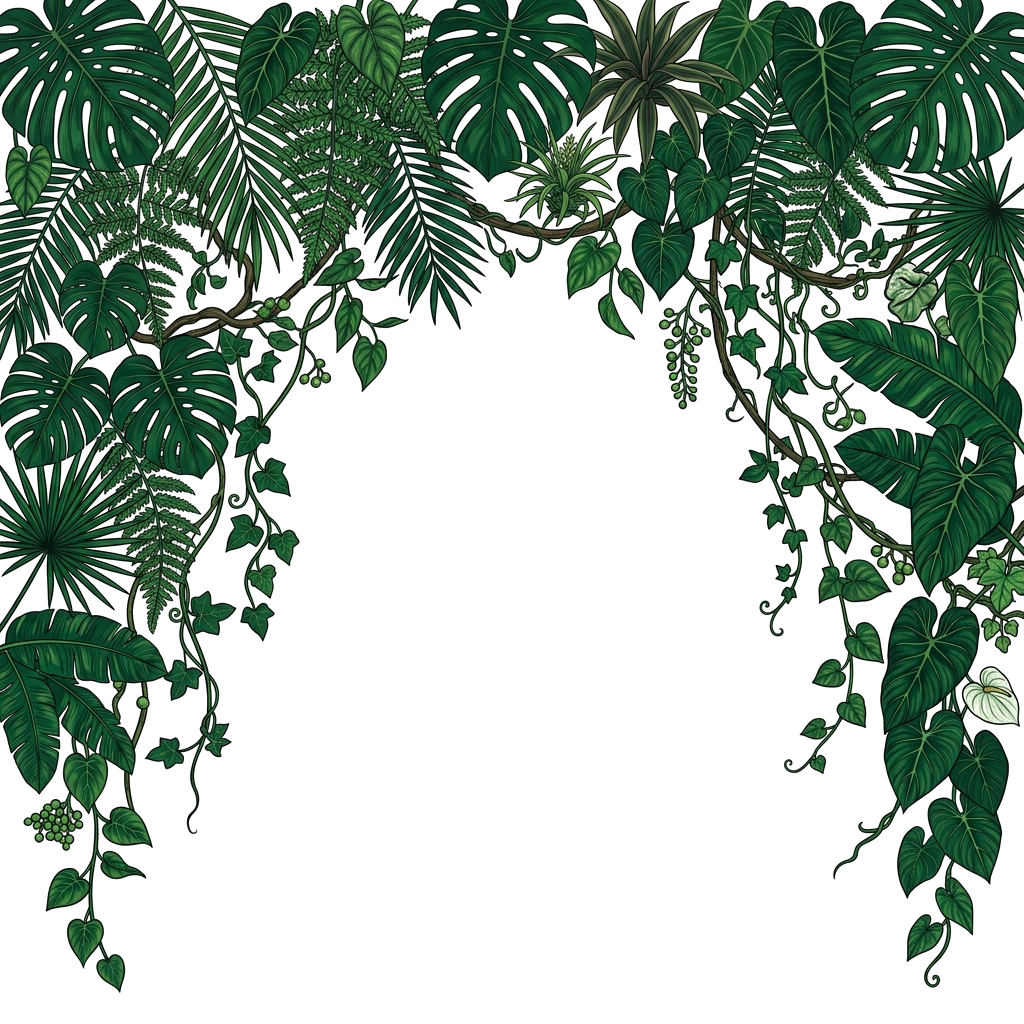
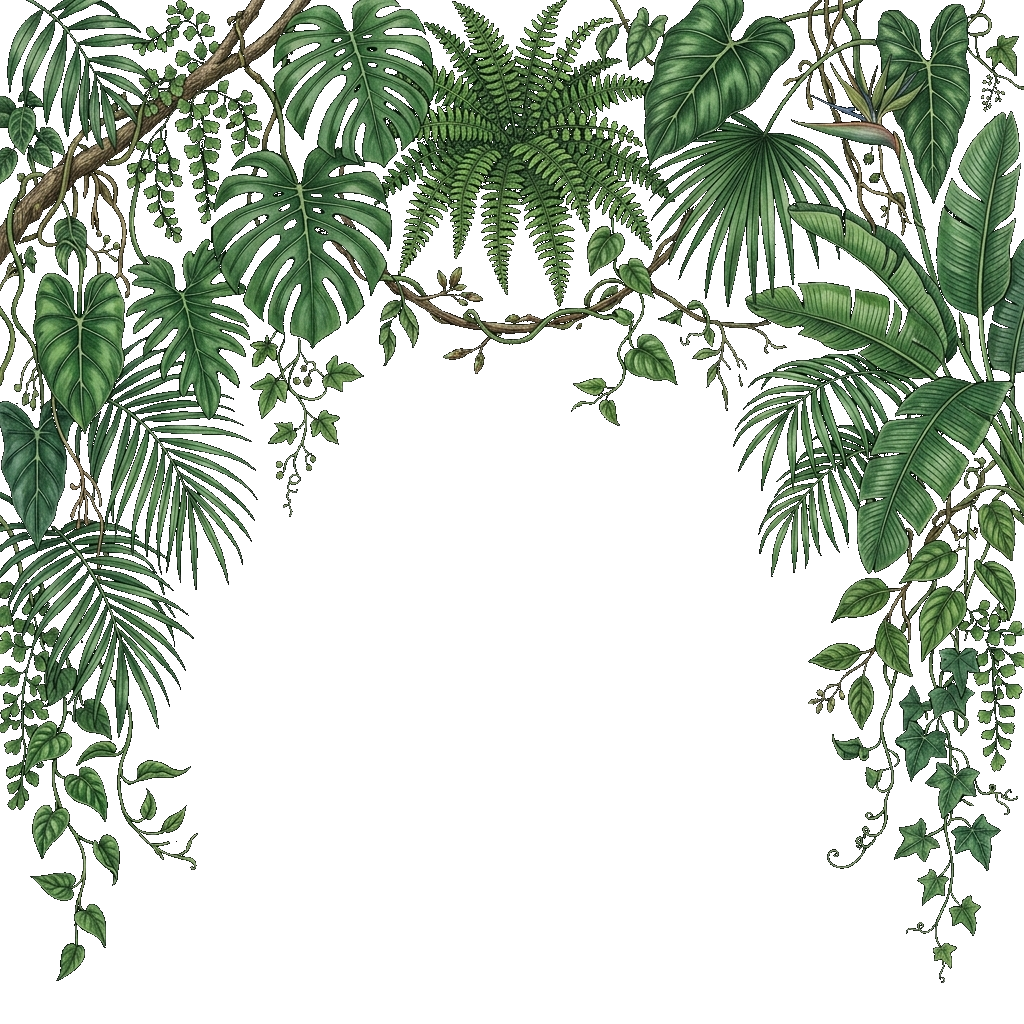
fix: replace leaves asset with black background generation to eliminate anti-aliasing white halos

diff --git a/resources/views/index.blade.php b/resources/views/index.blade.php
@@ -9,7 +9,7 @@
 
     <link rel="icon" type="image/png" href="{{ asset('favicon.png') }}">
     {{-- Public CSS (design tokens + animations) --}}
-    <link rel="stylesheet" href="{{ asset('css/public.css') }}?v=1.1.4">
+    <link rel="stylesheet" href="{{ asset('css/public.css') }}?v=1.1.5">
 
     {{-- GSAP 3 + ScrollTrigger via CDN --}}
     <script src="https://cdn.jsdelivr.net/npm/gsap@3.12.5/dist/gsap.min.js"></script>
@@ -432,7 +432,7 @@
 </div>
 
 {{-- Script --}}
-<script src="{{ asset('js/script.js') }}?v=1.1.4"></script>
+<script src="{{ asset('js/script.js') }}?v=1.1.5"></script>
 
 {{-- Milestone videos: autoplay on scroll ─────────── --}}
 <script>